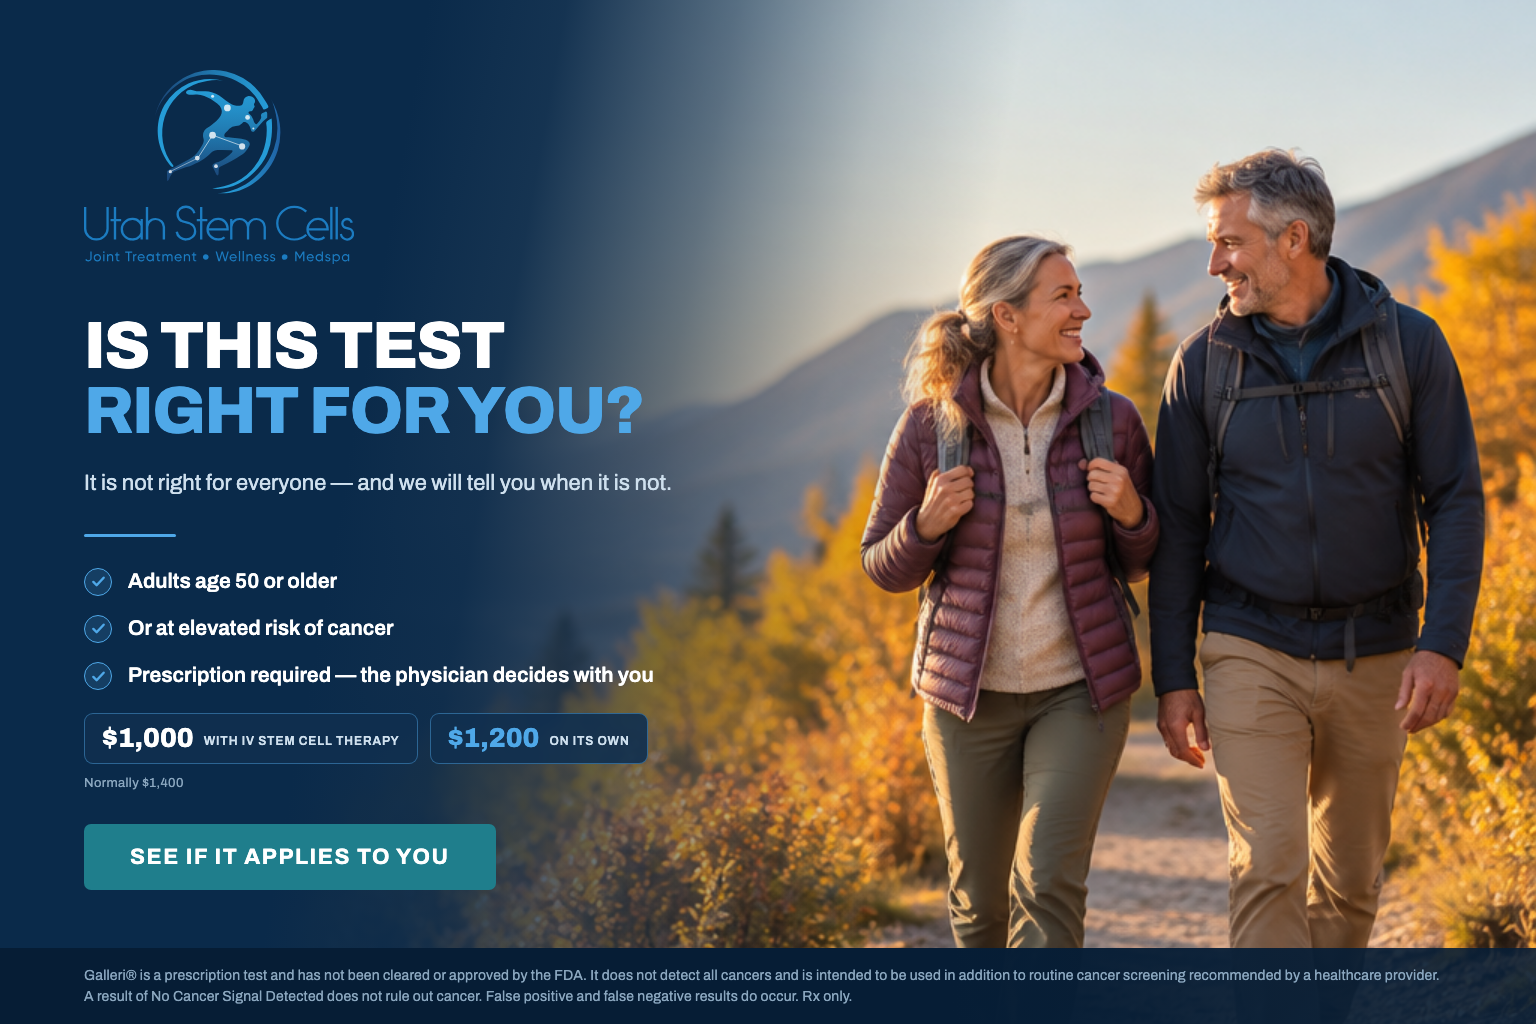
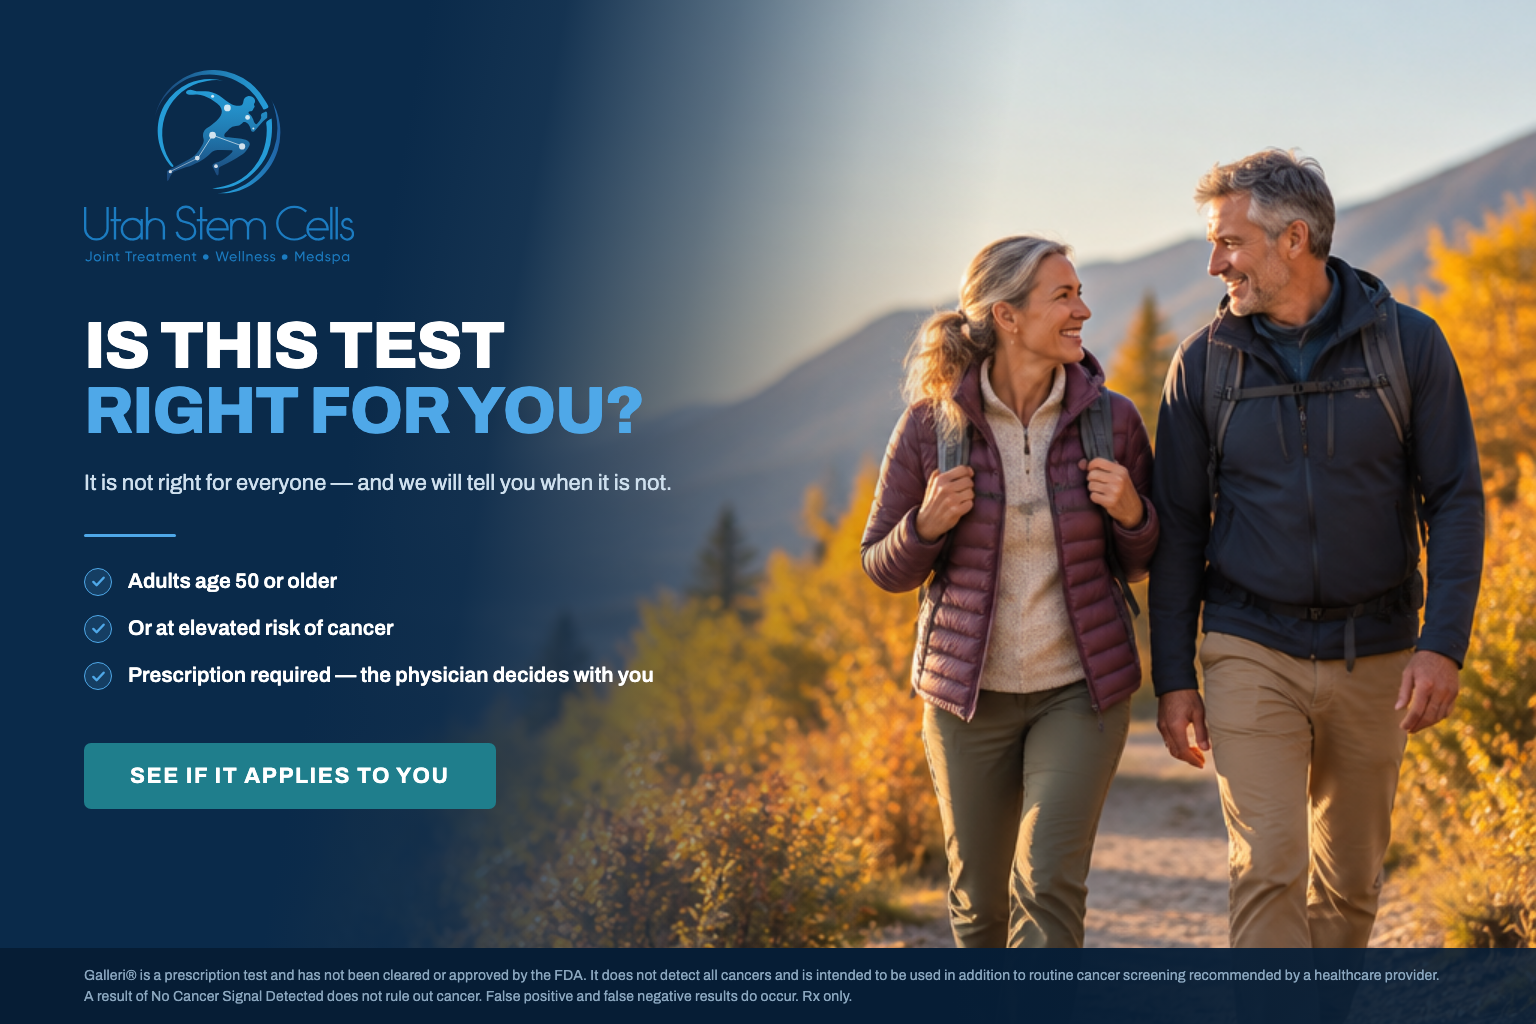
Galleri: offerta solo nella DEM 03, con scadenza 31 ottobre
Le DEM 04, 05 e 06 partono il 9/11, 23/11 e 7/12, cioe' a promozione
scaduta: prezzi rimossi da testi e creativita. La 03, unica che parte
prima (26/10), riporta la scadenza in email e nell'immagine.

Changed region(s): [[0.0312, 0.6875, 0.4375, 0.875]]

diff --git a/newsletter/ott26/email/03-cancers-nobody-screens-for.html b/newsletter/ott26/email/03-cancers-nobody-screens-for.html
@@ -49,12 +49,13 @@
         
               <table role="presentation" width="100%" cellpadding="0" cellspacing="0" border="0" style="background-color:#eaf4fc;border:1px solid #d6e4f0;border-radius:8px;margin-top:14px;">
                 <tr><td style="padding:20px 24px;font-family:Arial,Helvetica,sans-serif;">
-                  <p style="margin:0 0 12px;font-size:13px;font-weight:bold;letter-spacing:1.2px;text-transform:uppercase;color:#0a2a4a;">What it costs</p>
+                  <p style="margin:0 0 3px;font-size:13px;font-weight:bold;letter-spacing:1.2px;text-transform:uppercase;color:#0a2a4a;">What it costs</p>
+                  <p style="margin:0 0 14px;font-size:14px;font-weight:bold;color:#1479c9;">Through 31 October</p>
                   <p style="margin:0 0 3px;font-size:14px;color:#333333;">With IV stem cell therapy</p>
                   <p style="margin:0 0 12px;font-size:28px;font-weight:bold;line-height:1;color:#0a2a4a;">$1,000</p>
                   <p style="margin:0 0 3px;font-size:14px;color:#333333;">On its own</p>
                   <p style="margin:0 0 12px;font-size:28px;font-weight:bold;line-height:1;color:#1479c9;">$1,200</p>
-                  <p style="margin:0;font-size:13px;line-height:1.5;color:#6b7c8c;">Normally $1,400. The price has no bearing on whether the test is appropriate for you &mdash; that is decided by the physician at an evaluation.</p>
+                  <p style="margin:0;font-size:13px;line-height:1.5;color:#6b7c8c;">Normally $1,400. Offer ends 31 October. The price has no bearing on whether the test is appropriate for you &mdash; that is decided by the physician at an evaluation.</p>
                 </td></tr>
               </table>
       </td></tr>

diff --git a/newsletter/ott26/email/04-what-your-result-means.html b/newsletter/ott26/email/04-what-your-result-means.html
@@ -47,16 +47,6 @@
                 </td></tr>
               </table>
         
-              <table role="presentation" width="100%" cellpadding="0" cellspacing="0" border="0" style="background-color:#eaf4fc;border:1px solid #d6e4f0;border-radius:8px;margin-top:14px;">
-                <tr><td style="padding:20px 24px;font-family:Arial,Helvetica,sans-serif;">
-                  <p style="margin:0 0 12px;font-size:13px;font-weight:bold;letter-spacing:1.2px;text-transform:uppercase;color:#0a2a4a;">What it costs</p>
-                  <p style="margin:0 0 3px;font-size:14px;color:#333333;">With IV stem cell therapy</p>
-                  <p style="margin:0 0 12px;font-size:28px;font-weight:bold;line-height:1;color:#0a2a4a;">$1,000</p>
-                  <p style="margin:0 0 3px;font-size:14px;color:#333333;">On its own</p>
-                  <p style="margin:0 0 12px;font-size:28px;font-weight:bold;line-height:1;color:#1479c9;">$1,200</p>
-                  <p style="margin:0;font-size:13px;line-height:1.5;color:#6b7c8c;">Normally $1,400. The price has no bearing on whether the test is appropriate for you &mdash; that is decided by the physician at an evaluation.</p>
-                </td></tr>
-              </table>
       </td></tr>
       <tr><td class="px btn" align="center" style="padding:30px 40px 10px;">
         

diff --git a/newsletter/ott26/email/05-is-this-test-right-for-you.html b/newsletter/ott26/email/05-is-this-test-right-for-you.html
@@ -47,16 +47,6 @@
                 </td></tr>
               </table>
         
-              <table role="presentation" width="100%" cellpadding="0" cellspacing="0" border="0" style="background-color:#eaf4fc;border:1px solid #d6e4f0;border-radius:8px;margin-top:14px;">
-                <tr><td style="padding:20px 24px;font-family:Arial,Helvetica,sans-serif;">
-                  <p style="margin:0 0 12px;font-size:13px;font-weight:bold;letter-spacing:1.2px;text-transform:uppercase;color:#0a2a4a;">What it costs</p>
-                  <p style="margin:0 0 3px;font-size:14px;color:#333333;">With IV stem cell therapy</p>
-                  <p style="margin:0 0 12px;font-size:28px;font-weight:bold;line-height:1;color:#0a2a4a;">$1,000</p>
-                  <p style="margin:0 0 3px;font-size:14px;color:#333333;">On its own</p>
-                  <p style="margin:0 0 12px;font-size:28px;font-weight:bold;line-height:1;color:#1479c9;">$1,200</p>
-                  <p style="margin:0;font-size:13px;line-height:1.5;color:#6b7c8c;">Normally $1,400. The price has no bearing on whether the test is appropriate for you &mdash; that is decided by the physician at an evaluation.</p>
-                </td></tr>
-              </table>
       </td></tr>
       <tr><td class="px btn" align="center" style="padding:30px 40px 10px;">
         

diff --git a/newsletter/ott26/email/06-how-it-works-here.html b/newsletter/ott26/email/06-how-it-works-here.html
@@ -49,16 +49,6 @@
                 </td></tr>
               </table>
         
-              <table role="presentation" width="100%" cellpadding="0" cellspacing="0" border="0" style="background-color:#eaf4fc;border:1px solid #d6e4f0;border-radius:8px;margin-top:14px;">
-                <tr><td style="padding:20px 24px;font-family:Arial,Helvetica,sans-serif;">
-                  <p style="margin:0 0 12px;font-size:13px;font-weight:bold;letter-spacing:1.2px;text-transform:uppercase;color:#0a2a4a;">What it costs</p>
-                  <p style="margin:0 0 3px;font-size:14px;color:#333333;">With IV stem cell therapy</p>
-                  <p style="margin:0 0 12px;font-size:28px;font-weight:bold;line-height:1;color:#0a2a4a;">$1,000</p>
-                  <p style="margin:0 0 3px;font-size:14px;color:#333333;">On its own</p>
-                  <p style="margin:0 0 12px;font-size:28px;font-weight:bold;line-height:1;color:#1479c9;">$1,200</p>
-                  <p style="margin:0;font-size:13px;line-height:1.5;color:#6b7c8c;">Normally $1,400. The price has no bearing on whether the test is appropriate for you &mdash; that is decided by the physician at an evaluation.</p>
-                </td></tr>
-              </table>
       </td></tr>
       <tr><td class="px btn" align="center" style="padding:30px 40px 10px;">
         

diff --git a/newsletter/ott26/creative-05.html b/newsletter/ott26/creative-05.html
@@ -76,11 +76,7 @@ h1 .accent{color:var(--blue);display:block}
       <li><span class="dot"><svg viewBox="0 0 16 16" fill="none" stroke="#4fa8e8" stroke-width="2.6" stroke-linecap="round" stroke-linejoin="round"><path d="M2.5 8.5l3.5 3.5 7.5-8"/></svg></span><span>Or at elevated risk of cancer</span></li>
       <li><span class="dot"><svg viewBox="0 0 16 16" fill="none" stroke="#4fa8e8" stroke-width="2.6" stroke-linecap="round" stroke-linejoin="round"><path d="M2.5 8.5l3.5 3.5 7.5-8"/></svg></span><span>Prescription required &mdash; the physician decides with you</span></li>
     </ul>
-    <div class="prices">
-      <div class="chip"><div class="v">$1,000</div><div class="c">With IV stem cell therapy</div></div>
-      <div class="chip alt"><div class="v">$1,200</div><div class="c">On its own</div></div>
-      <div class="was">Normally $1,400</div>
-    </div>
+    
     <a class="cta" href="#">See if it applies to you</a>
   </div>
 <div class="isi">Galleri&reg; is a prescription test and has not been cleared or approved by the FDA. It does not detect all cancers and is intended to be used in addition to routine cancer screening recommended by a healthcare provider. A result of No Cancer Signal Detected does not rule out cancer. False positive and false negative results do occur. Rx only.</div>

diff --git a/newsletter/ott26/creative-04.html b/newsletter/ott26/creative-04.html
@@ -80,11 +80,7 @@ h1 .accent{color:var(--blue);display:block}
       <div class="card"><div class="t">Cancer signal detected</div>
         <div class="b">Not a diagnosis. Requires confirmatory evaluation by established procedures, such as imaging.</div></div>
     </div>
-    <div class="prices">
-      <div class="chip"><div class="v">$1,000</div><div class="c">With IV stem cell therapy</div></div>
-      <div class="chip alt"><div class="v">$1,200</div><div class="c">On its own</div></div>
-      <div class="was">Normally $1,400</div>
-    </div>
+    
     <a class="cta" href="#">See what each result means</a>
   </div>
 <div class="isi">Galleri&reg; is a prescription test and has not been cleared or approved by the FDA. It does not detect all cancers and is intended to be used in addition to routine cancer screening recommended by a healthcare provider. A result of No Cancer Signal Detected does not rule out cancer. False positive and false negative results do occur. Rx only.</div>

diff --git a/newsletter/ott26/creative-06.html b/newsletter/ott26/creative-06.html
@@ -85,11 +85,6 @@ h1 .accent{color:var(--blue);display:block}
       <div><div class="d1">Dr. William Cimikoski</div>
       <div class="d2">Medical Director. Oversees this process personally.</div></div>
     </div>
-    <div class="prices">
-      <div class="chip"><div class="v">$1,000</div><div class="c">With IV stem cell therapy</div></div>
-      <div class="chip alt"><div class="v">$1,200</div><div class="c">On its own</div></div>
-      <div class="was">Normally $1,400</div>
-    </div>
     <a class="cta" href="#">See how the test works here</a>
   </div>
 <div class="isi">Galleri&reg; is a prescription test and has not been cleared or approved by the FDA. It does not detect all cancers and is intended to be used in addition to routine cancer screening recommended by a healthcare provider. A result of No Cancer Signal Detected does not rule out cancer. False positive and false negative results do occur. Rx only.</div>

diff --git a/newsletter/ott26/creative-03.html b/newsletter/ott26/creative-03.html
@@ -71,7 +71,7 @@ h1 .accent{color:var(--blue);display:block}
     <div class="prices">
       <div class="chip"><div class="v">$1,000</div><div class="c">With IV stem cell therapy</div></div>
       <div class="chip alt"><div class="v">$1,200</div><div class="c">On its own</div></div>
-      <div class="was">Normally $1,400</div>
+      <div class="was">Normally $1,400 &middot; through 31 October</div>
     </div>
     <a class="cta" href="#">See what Galleri looks for</a>
   </div>
